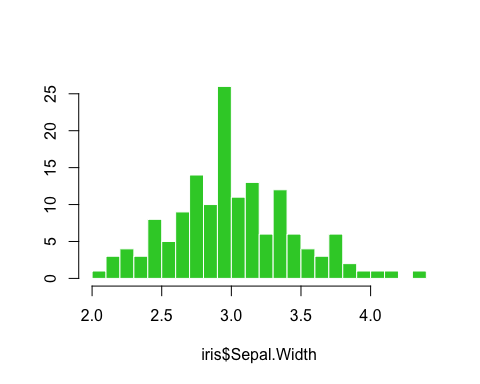
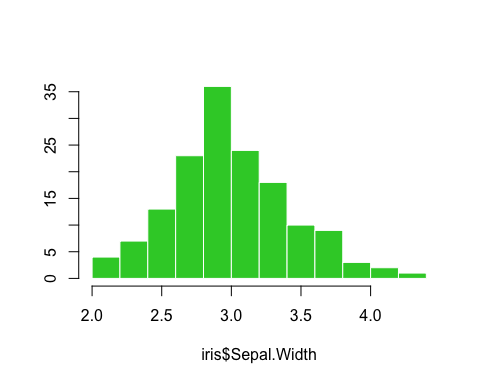
simplify readme example

diff --git a/README.md b/README.md
@@ -17,7 +17,7 @@ hist(iris$Sepal.Width)
 
 ``` r
 library (defaults)
-defaults(hist.default) <- list(col = "deeppink", border = "white", breaks = 20, ylab = "", main = "")
+defaults(hist.default) <- list(col = "deeppink", border = "white", ylab = "", main = "")
 
 hist(iris$Sepal.Width)
 ```
